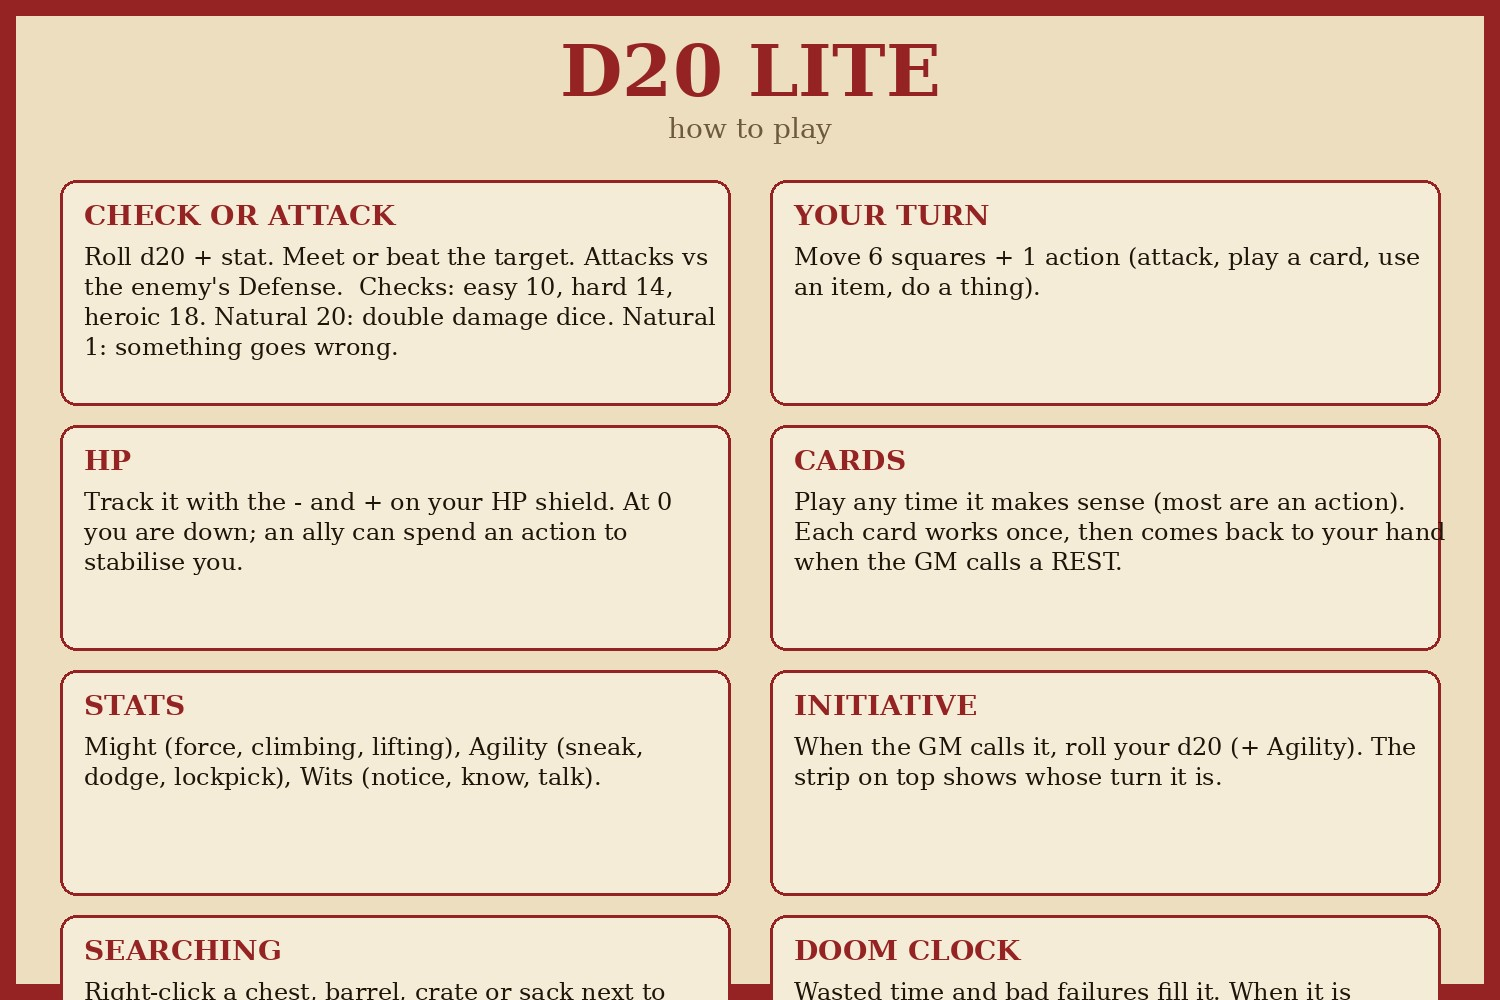
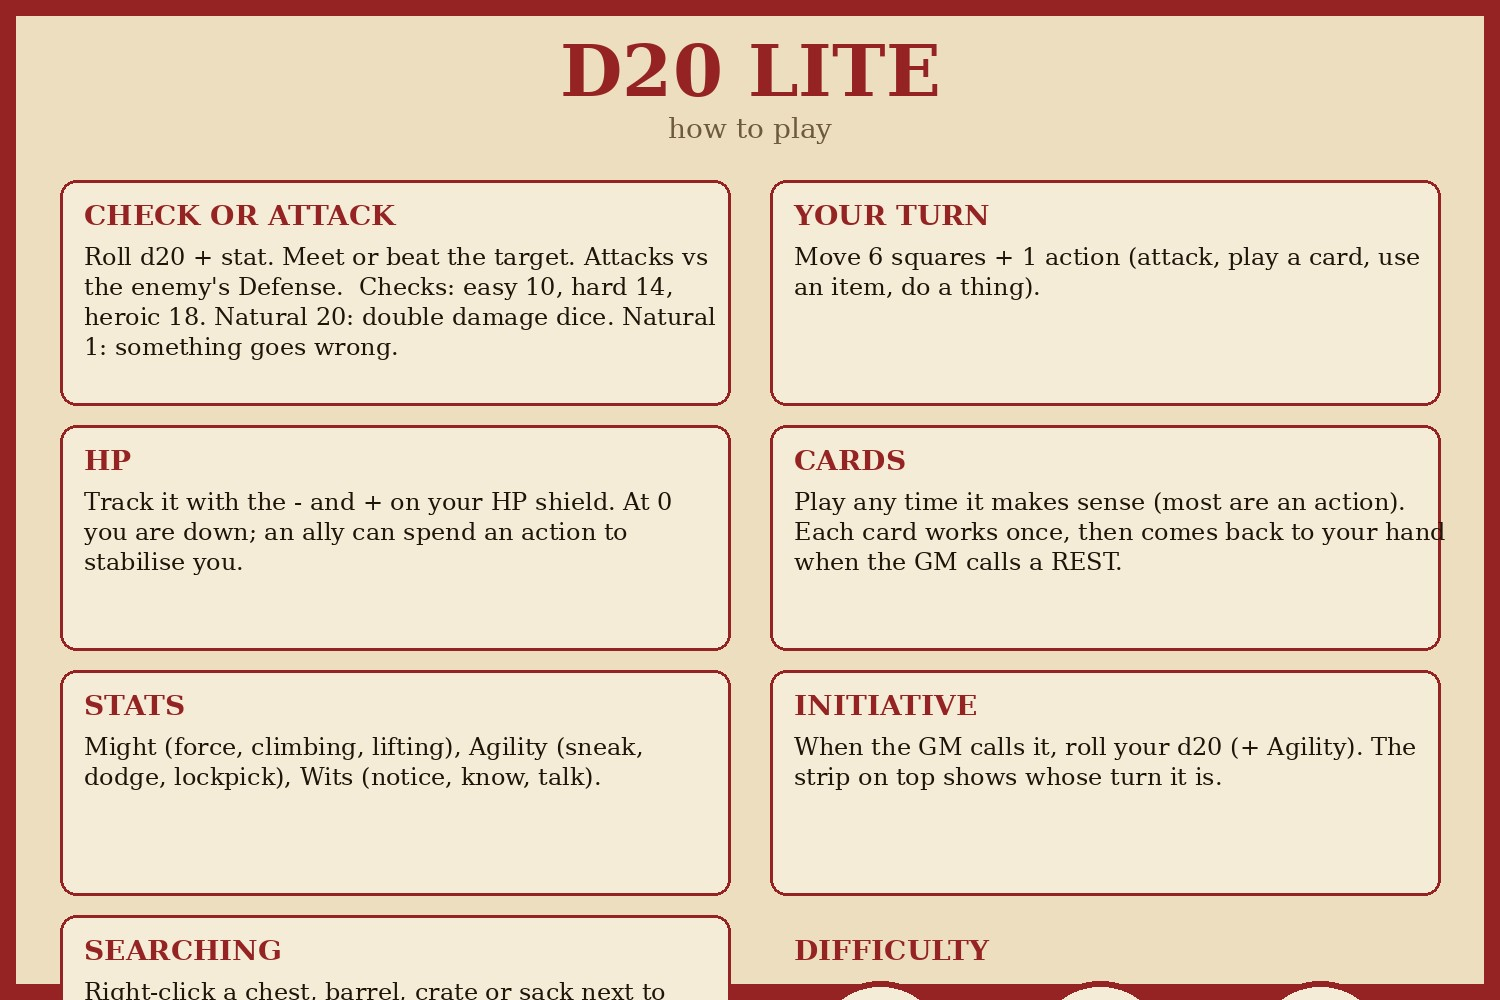
Remove the doom clock

Changed region(s): [[0.4907, 0.899, 0.9813, 1.0]]

diff --git a/build.py b/build.py
@@ -3,7 +3,7 @@ e.g. https://raw.githubusercontent.com/<user>/<repo>/<commit>/  -> writes art/ou
 import hashlib, json, math, subprocess, sys, textwrap
 from pathlib import Path
 from PIL import Image, ImageChops, ImageDraw, ImageFont
-from content import HEROES, NPCS, SCENES, RULES, BATTLE_MUSIC, ITEMS, SKIES, LOOT, DOOM_NOTES
+from content import HEROES, NPCS, SCENES, RULES, BATTLE_MUSIC, ITEMS, SKIES, LOOT
 
 ROOT = Path(__file__).parent
 CONTROLLER = "901d00"       # GUID of the hidden object that runs game.lua
@@ -532,7 +532,7 @@ TRAY = (7.2, -7.5)                  # dice tray, from X0; it also carries the GM
 # +x and "left" is -z). Rows run down the mat; each entry: label, what it does, its row, and its slot in a 3-wide row.
 PANEL_Z, PANEL_X0, ROW = -3.0, 4.2, 0.48
 GM_EXTRA = (("initiative", "Initiative"), ("nextTurn", "Next turn"), ("endFight", "End fight"),
-            ("doomUp", "Doom +1"), ("doomDown", "Doom -1"), ("tremor", "Tremor"))
+            ("tremor", "Tremor"))
 GM_BUTTONS = ([dict(label="Game Master", row=0, kind="title")] +
               [dict(label=s["title"], scene=i + 1, row=i + 1) for i, s in enumerate(SCENES)] +
               [dict(label=t, fn=f, row=len(SCENES) + 1, slot=k) for k, (f, t) in
@@ -606,9 +606,6 @@ def xml_ui(base):
 </VerticalLayout></Panel>"""
     turns = """<Panel id="turns" active="false" rectAlignment="UpperCenter" offsetXY="0 -10" width="1100" height="44"
  color="#1b1410dd" padding="10 10 4 4"><Text id="turnsText" fontSize="20" color="#f0d9a0" alignment="MiddleCenter"> </Text></Panel>"""
-    doom = f"""<Panel id="doom" active="false" rectAlignment="UpperLeft" offsetXY="10 -80" width="250" height="70"
- color="#1b1410dd" padding="8 8 6 8"><VerticalLayout spacing="4"><Text fontSize="16" color="#f0d9a0" fontStyle="Bold">DOOM CLOCK</Text>
-<HorizontalLayout spacing="4">{"".join(f'<Panel id="doom{i}" color="#3a2a1a"/>' for i in range(1, 7))}</HorizontalLayout></VerticalLayout></Panel>"""
     picks = "".join(f"""<VerticalLayout spacing="4"><Image id="pickimg_{h['color']}" image="portrait_{h['key']}" {on}pick" preserveAspect="true"/>
 <Button id="pick_{h['color']}" {on}pick" {btn}>{h['name'].split(' the ')[0]}</Button></VerticalLayout>"""
                     for h in HEROES)
@@ -621,7 +618,7 @@ def xml_ui(base):
     # Lua's UI.setXml wants lowercase name/url (the save-file format's Name/URL gives a null-reference error)
     assets = [{"name": f"portrait_{h['key']}", "url": f"{base}art/out/portrait_{h['key']}.jpg"} for h in HEROES] + [
         {"name": "portrait_gm", "url": f"{base}art/out/portrait_gm.jpg"}]
-    return gm + pick + turns + doom, assets
+    return gm + pick + turns, assets
 
 
 def lua_lit(v):
@@ -650,7 +647,7 @@ def gm_guide():
            "  bind the *Toggle visibility (GM)* hotkey (Options > Game Keys). Hidden things vanish for players and show",
            "  see-through with an outline for you. Press again to show them.",
            "- The same text as below sits in the Notebook (GM-only tabs).\n",
-           "## Rules\n", "```", RULES, "```\n", "## Doom clock\n", "```", DOOM_NOTES, "```\n", "## Heroes\n"]
+           "## Rules\n", "```", RULES, "```\n", "## Heroes\n"]
     for h in HEROES:
         out.append(f"**{h['name']}** ({h['color']}) HP {h['hp']}, Def {h['defense']}, "
                    + ", ".join(f"{k} {v:+d}" for k, v in h["stats"].items()))
@@ -683,8 +680,7 @@ def main(base):
         heroes[h["color"]] = dict(name=h["name"], short=h["name"].split(" the ")[0], hp=h["hp"],
                                      agility=h["stats"]["Agility"])
     notebook = [dict(title="Rules", body=RULES, color="Grey")] + \
-               [dict(title=s["title"], body=s["notes"], color="Black") for s in SCENES] + \
-               [dict(title="Doom clock", body=DOOM_NOTES, color="Black")]
+               [dict(title=s["title"], body=s["notes"], color="Black") for s in SCENES]
     data = dict(colors=[h["color"] for h in HEROES], heroes=heroes, kits=kits, notebook=notebook, layout=LAYOUT,
                 gm=gm_objects(base), gm_buttons=GM_BUTTONS, fog=FOG, fx=FX, card_fx=CARD_FX, loot=LOOT,
                 scenes=[scene_data(s, base, textures) for s in SCENES],

diff --git a/content.py b/content.py
@@ -131,8 +131,7 @@ Cards: play any time it makes sense (most are an action). Each card works once,
   then comes back to your hand when the GM calls a REST.
 Stats: Might (force, climbing, lifting), Agility (sneak, dodge, lockpick), Wits (notice, know, talk).
 Initiative: when the GM calls it, roll your d20 (+ Agility). The strip on top shows whose turn it is.
-Searching: right-click a chest, barrel, crate or sack next to your hero > Search. Once each.
-Doom clock: wasted time and bad failures fill it. When it is full, something goes wrong."""
+Searching: right-click a chest, barrel, crate or sack next to your hero > Search. Once each."""
 
 # ---------------------------------------------------------------- npcs
 # Animated townsfolk from the Steam workshop packs "Male Human Commoners" (2960527540) and "Female Human
@@ -533,18 +532,6 @@ BATTLE_MUSIC = "battle.mp3"
 
 # ---------------------------------------------------------------- GM desk (GM-only, beside the table)
 # magic items as cards the GM hands out: (name, rules text, card art prompt, copies)
-DOOM_NOTES = """DOOM CLOCK (GM panel: Doom +1 / -1; everyone sees it, hidden while empty)
-+1 when: the party dawdles or argues for long, a check fails by 5 or more, someone makes a lot of noise,
-  they rest outside the sewer, or a giant escapes. -1 for a clever shortcut or a great plan.
-FULL (thunder, it empties again): spring one complication.
-  Outskirts: two more giants round the corner / a house collapses, blocking the sewer grate.
-  Sewer: the hunters come back empty-handed and blame the party / a refugee sells them out to Vasko.
-  Den: Vasko's bruisers lock the door / the price for the information doubles.
-  Passage: the door behind them is barred; the rats are awake.
-  Cart: the giants' leader arrives (the chainmaster, full HP).
-  Cave: Isolde is down to 1 HP and Hrothga dies before she can talk.
-Tremor (GM panel): giant footsteps. Revealing the chainmaster does it automatically."""
-
 # what a right-click > Search turns up in a chest/barrel/crate/sack without fixed loot: (weight, text); {gold} = 2-8.
 # Weight 3 or less sparkles. The two prizes are item cards on the GM desk: hand one over.
 LOOT = [

diff --git a/test_lua.py b/test_lua.py
@@ -198,7 +198,7 @@ ctl = g.getObjectFromGUID(CTL)
 assert ctl and ctl.getVar("VERSION") == game["version"]
 c = ctl.env
 assert 'onClick="%s/pick"' % CTL in g.UIxml
-assert len(list(g.tabs.values())) == 2 + len(c.DATA.scenes)
+assert len(list(g.tabs.values())) == 1 + len(c.DATA.scenes)
 count = lambda tag: len(list(g.getObjectsWithTag(tag).values()))
 assert count("scene") == 0 and count("kit") == 20, (count("scene"), count("kit"))   # title: no props, 4 hero kits
 assert g.tableURL.endswith("table_title.jpg") and g.tableName == "Table_Custom"
@@ -404,7 +404,7 @@ assert ctl2.marker is None and ctl2.getVar("VERSION") == "newer"
 assert g.UIattr["sceneTitle.text"] == scenes[2]["title"]
 assert count("kit") == 25 and hand("Red") == 6 and count("card_Red") == 6, (count("kit"), hand("Red"))  # Red deck dealt: 20 - 1 + 6
 assert len(g.handzones) == 5   # the GM's spawned hand zone is reused, not duplicated
-assert len(list(g.tabs.values())) == 2 + len(scenes)
+assert len(list(g.tabs.values())) == 1 + len(scenes)
 
 # cave: the princess starts hidden, and "reveal all" leaves her hidden
 c.setScene(7)
@@ -502,11 +502,6 @@ strip = g.UIattr["turnsText.value"]
 assert g.UIattr["turns.active"] == "true" and "Giant x2" in strip and to_py(c.DATA.heroes)["Red"]["short"] in strip and "waiting" not in strip, strip
 c.nextTurn(); assert "<b>" in g.UIattr["turnsText.value"] and any(o.lit for o in g.getObjects().values())
 c.endFight(); assert g.UIattr["turns.active"] == "false"
-# doom clock: hidden at 0, fills, empties after it's full
-c.doomUp(); assert g.UIattr["doom.active"] == "true" and g.UIattr["doom1.color"] != g.UIattr["doom2.color"]
-for _ in range(5):
-    c.doomUp()
-assert g.UIattr["doom.active"] == "false" and "doom clock is full" in list(g.log.values())[-1]
 # searching: a chest/barrel without fixed loot, once, with the hero beside it; fixed-loot props have no Search
 c.setScene(3)
 objs = list(g.getObjectsWithTag("scene").values())

diff --git a/GM_GUIDE.md b/GM_GUIDE.md
@@ -25,23 +25,6 @@ Cards: play any time it makes sense (most are an action). Each card works once,
 Stats: Might (force, climbing, lifting), Agility (sneak, dodge, lockpick), Wits (notice, know, talk).
 Initiative: when the GM calls it, roll your d20 (+ Agility). The strip on top shows whose turn it is.
 Searching: right-click a chest, barrel, crate or sack next to your hero > Search. Once each.
-Doom clock: wasted time and bad failures fill it. When it is full, something goes wrong.
-```
-
-## Doom clock
-
-```
-DOOM CLOCK (GM panel: Doom +1 / -1; everyone sees it, hidden while empty)
-+1 when: the party dawdles or argues for long, a check fails by 5 or more, someone makes a lot of noise,
-  they rest outside the sewer, or a giant escapes. -1 for a clever shortcut or a great plan.
-FULL (thunder, it empties again): spring one complication.
-  Outskirts: two more giants round the corner / a house collapses, blocking the sewer grate.
-  Sewer: the hunters come back empty-handed and blame the party / a refugee sells them out to Vasko.
-  Den: Vasko's bruisers lock the door / the price for the information doubles.
-  Passage: the door behind them is barred; the rats are awake.
-  Cart: the giants' leader arrives (the chainmaster, full HP).
-  Cave: Isolde is down to 1 HP and Hrothga dies before she can talk.
-Tremor (GM panel): giant footsteps. Revealing the chainmaster does it automatically.
 ```
 
 ## Heroes
